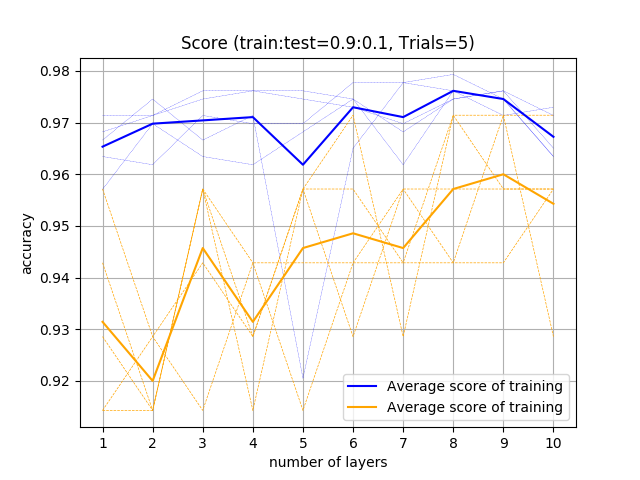
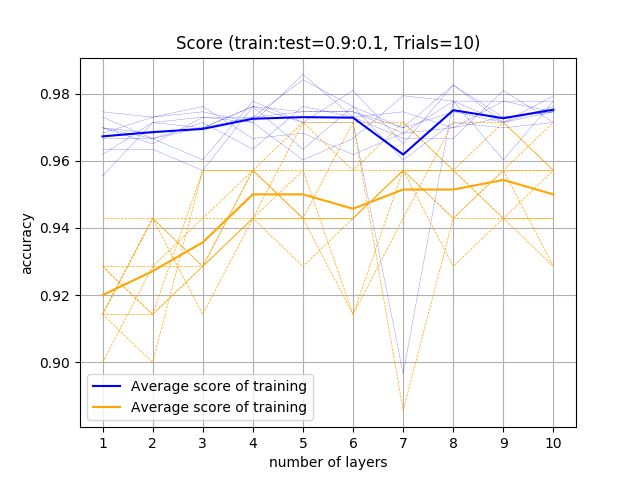
modified

diff --git a/trial_for_layers.py b/trial_for_layers.py
@@ -16,9 +16,9 @@ from sknn.mlp import Classifier, Layer
 from layers import myLayers
 
 # configurations # default
-num_of_trials = 5  #5
+num_of_trials = 10  #5
 num_of_layers = 10  #10
-test_size = 0.1  #0.2
+test_size = 0.2  #0.2
 iteration = 25  #25
 learning_rate = 0.001  #0.001
 units = 10  #10
@@ -39,18 +39,18 @@ for l in range(num_of_layers):
     print('========== Num of layers: {} ========='.format(l+1))
     for t in range(num_of_trials):
         print('---- Trial: {} ----'.format(t+1))
+        # define model, set params
         clf = Classifier(
             layers=layers_list[l],
             learning_rate=learning_rate,
             n_iter=iteration)
 
-        clf.fit(X_train, y_train)
-
+        clf.fit(X_train, y_train) # trian
+        # store result
         scores_train[l][t] = clf.score(X_train, y_train)
         scores_test[l][t] = clf.score(X_test, y_test)
         print ('  - Training set score: {}'.format(scores_train[l][t]))
         print ('  - Test set score: {}'.format(scores_test[l][t]))
-
 
 scores_train = np.array(scores_train)
 scores_test = np.array(scores_test)
@@ -58,7 +58,6 @@ print('')
 print('# Sammary')
 print('train:', scores_train)
 print('test:', scores_test)
-
 average_train = np.sum(scores_train, axis=1) / float(num_of_trials)
 average_test = np.sum(scores_test, axis=1)/ float(num_of_trials)
 print ('average_train:', average_train) # suppose to be 1xlayers
@@ -70,8 +69,8 @@ fig = plt.figure() # Initialize Figure
 ax = fig.add_subplot(1,1,1) # make axes
 x_axis = np.arange(1,num_of_layers+1)
 for i in range(num_of_trials): # draw all result with light color
-    ax.plot(x_axis, scores_train.T[i], color='blue', linestyle='--', linewidth=0.2) # linestyle is not working
-    ax.plot(x_axis, scores_test.T[i],color='orange', linestyle='--', linewidth=0.5)
+    ax.plot(x_axis, scores_train.T[i], color='blue', linestyle='--', linewidth=0.2)
+    ax.plot(x_axis, scores_test.T[i],color='orange', linestyle='--', linewidth=0.3)
 
 line1, = ax.plot(x_axis, average_train, color='blue', label='Average score of training')
 line2, = ax.plot(x_axis, average_test, color='orange', label='Average score of training')
@@ -79,10 +78,10 @@ ax.legend(loc='best') # add legend
 ax.set_xticks(range(x_axis[0],x_axis[-1]+1,1))
 ax.set_xticklabels(x_axis)
 ax.grid(which='both')
-ax.set_title('Score (train:test={}:{}, Trials={})'.format(1.-test_size,test_size,num_of_trials))
-ax.set_xlabel('number of layers')
-ax.set_ylabel('accuracy')
-fig.savefig('results_for_layers/test_result_fig_testsize-{}_ite-{}.png'.format(test_size,iteration))
+ax.set_title('Num of Layers (train:test={}:{}, Trials={})'.format(1.-test_size,test_size,num_of_trials))
+ax.set_xlabel('Number of layers')
+ax.set_ylabel('Accuracy')
+fig.savefig('results_for_layers/result_fig_testsize-{}_ite-{}.png'.format(test_size,iteration))
 plt.close()
 
 

diff --git a/train_sknn.py b/train_sknn.py
@@ -46,24 +46,24 @@ for n in range(num_of_trials):
         print ('  - Training set score: {}'.format(scores_train[n][i]))
         print ('  - Test set score: {}'.format(scores_test[n][i]))
 
-
 scores_train = np.array(scores_train)
 scores_test = np.array(scores_test)
 print('')
+print('# Sammary')
 print('train:', scores_train)
 print('test:', scores_test)
-
 average_train = np.sum(scores_train, axis=0) / float(num_of_trials)
 average_test = np.sum(scores_test, axis=0) / float(num_of_trials)
+print ('average_train:', average_train)
+print ('average_test:', average_test)
 
 
 import matplotlib.pyplot as plt
 fig = plt.figure() # Initialize Figure
 ax = fig.add_subplot(1,1,1) # make axes
-
 for i in range(num_of_trials): # draw all result with light color
-    ax.plot(units, scores_train[i], color='blue', linestyle='--', linewidth=0.2) # linestyle is not working
-    ax.plot(units, scores_test[i],color='orange', linestyle='--', linewidth=0.25)
+    ax.plot(units, scores_train[i], color='blue', linestyle='--', linewidth=0.2)
+    ax.plot(units, scores_test[i],color='orange', linestyle='--', linewidth=0.3)
 
 line1, = ax.plot(units, average_train, color='blue', label="Average score of training") # plot training
 line2, = ax.plot(units, average_test, color='orange', label="Average score of test") # plot test
@@ -71,9 +71,9 @@ ax.legend(loc='best') # add legend
 ax.set_xticks(range(units[0],units[-1]+5,5))
 ax.set_xticklabels(units)
 ax.grid(which='both')
-ax.set_title('Score (train:test={}:{}, Trials={})'.format(1.-test_size,test_size,num_of_trials))
-ax.set_xlabel('units')
-ax.set_ylabel('accuracy')
+ax.set_title('Num of Neurons (train:test={}:{}, Trials={})'.format(1.-test_size,test_size,num_of_trials))
+ax.set_xlabel('Number of neurons')
+ax.set_ylabel('Accuracy')
 fig.savefig('results_for_units/result_fig_testsize-{}_ite-{}.png'.format(test_size,iteration))
 print('line1:',line1)
 print('line2:',line2)
@@ -82,7 +82,6 @@ plt.close()
 
 import csv
 header = ['index','5','10','15','20','25','30']
-
 with open('results_for_units/result_table_testsize-{}_ite-{}.csv'.format(test_size,iteration),'w') as f:
     writer = csv.writer(f, lineterminator='\n')
     writer.writerow(header)

diff --git a/readme.md b/readme.md
@@ -3,12 +3,22 @@
 This repository is made for myself to better understand scikit-learn, scikit-neuralnetwork and multi-layer perceptron.
 
 ## train.py
+- module: scikit-learm
 - sklearn.neural_network.MLPClassifier
 
 ## train_sknn.py
+- module: scikit-neuralnetwork
+    - pros: dropout is avairable for each layer
 - sknn.mlp.Classifier
-- executes one hidden layer with (5,10,..,30) nodes
+- executes one hidden layer with (5,10,..,30) nodes (10 trials for each nodes)
 - outputs its result to graph and csv 
+- `trial_for_layers.py`:
+    - train with 1 to 10 layers with fixed nodes (10 nodes) (10 trials for each layer)
+    - outputs result fig and csv
+
+- `trial_for_dropouts.py`:
+    - train with 0% to 40% dropout rate for each layer where are 4 hidden layers 10 nodes (10 trials for each rate)
+
 
 ---
 #### Reference
